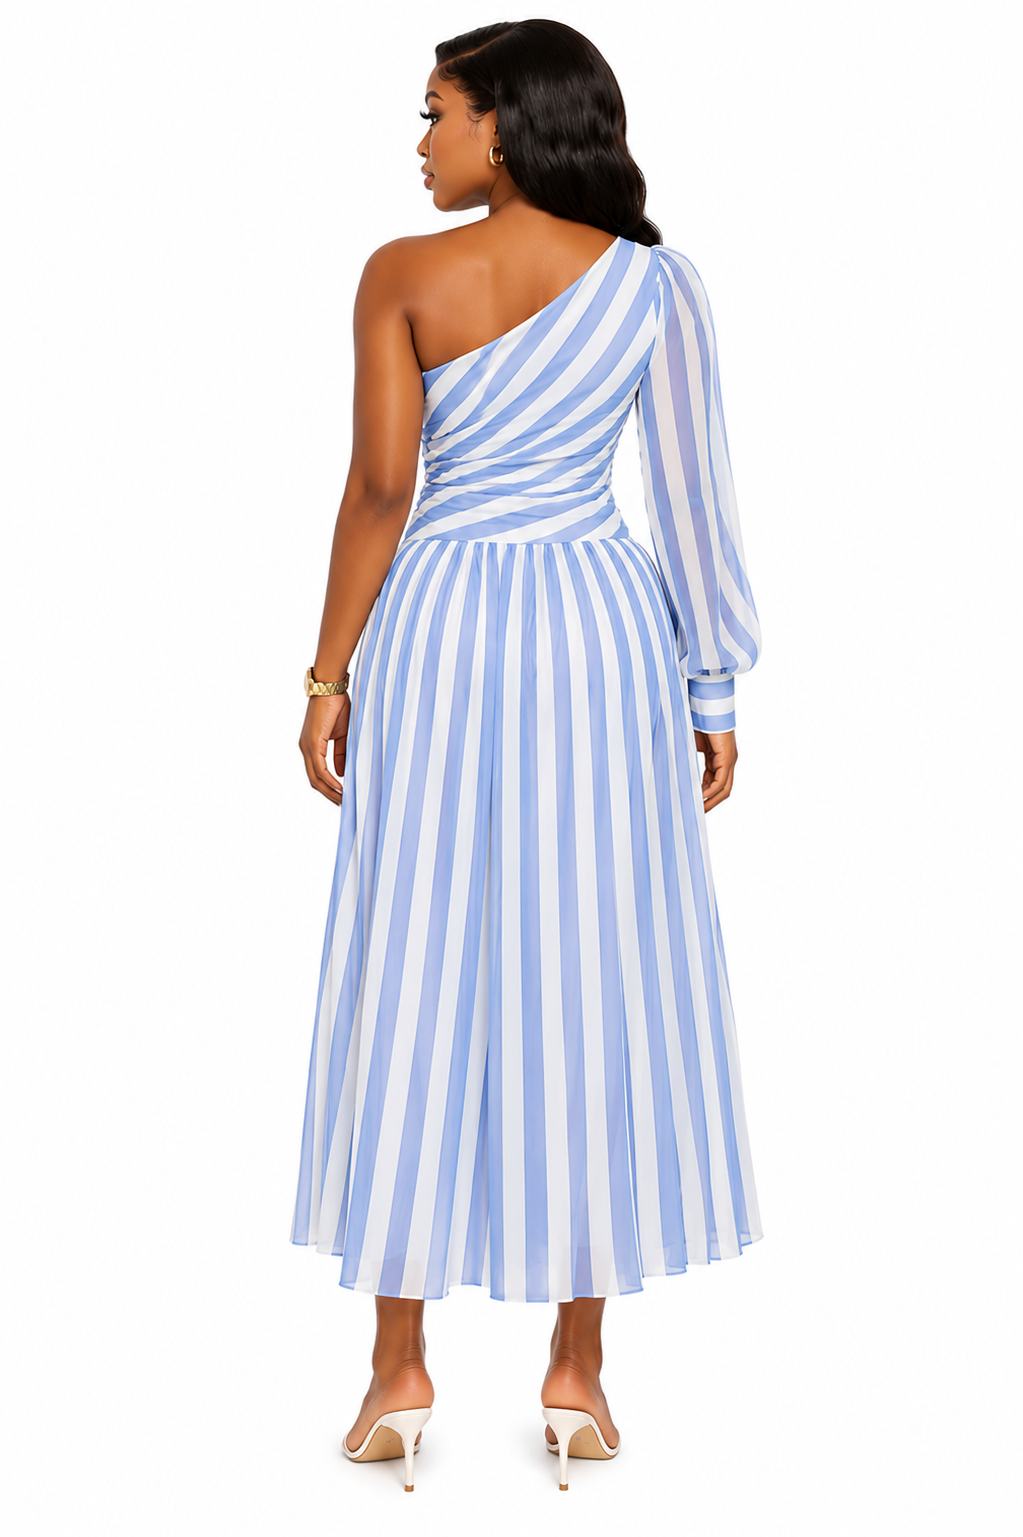
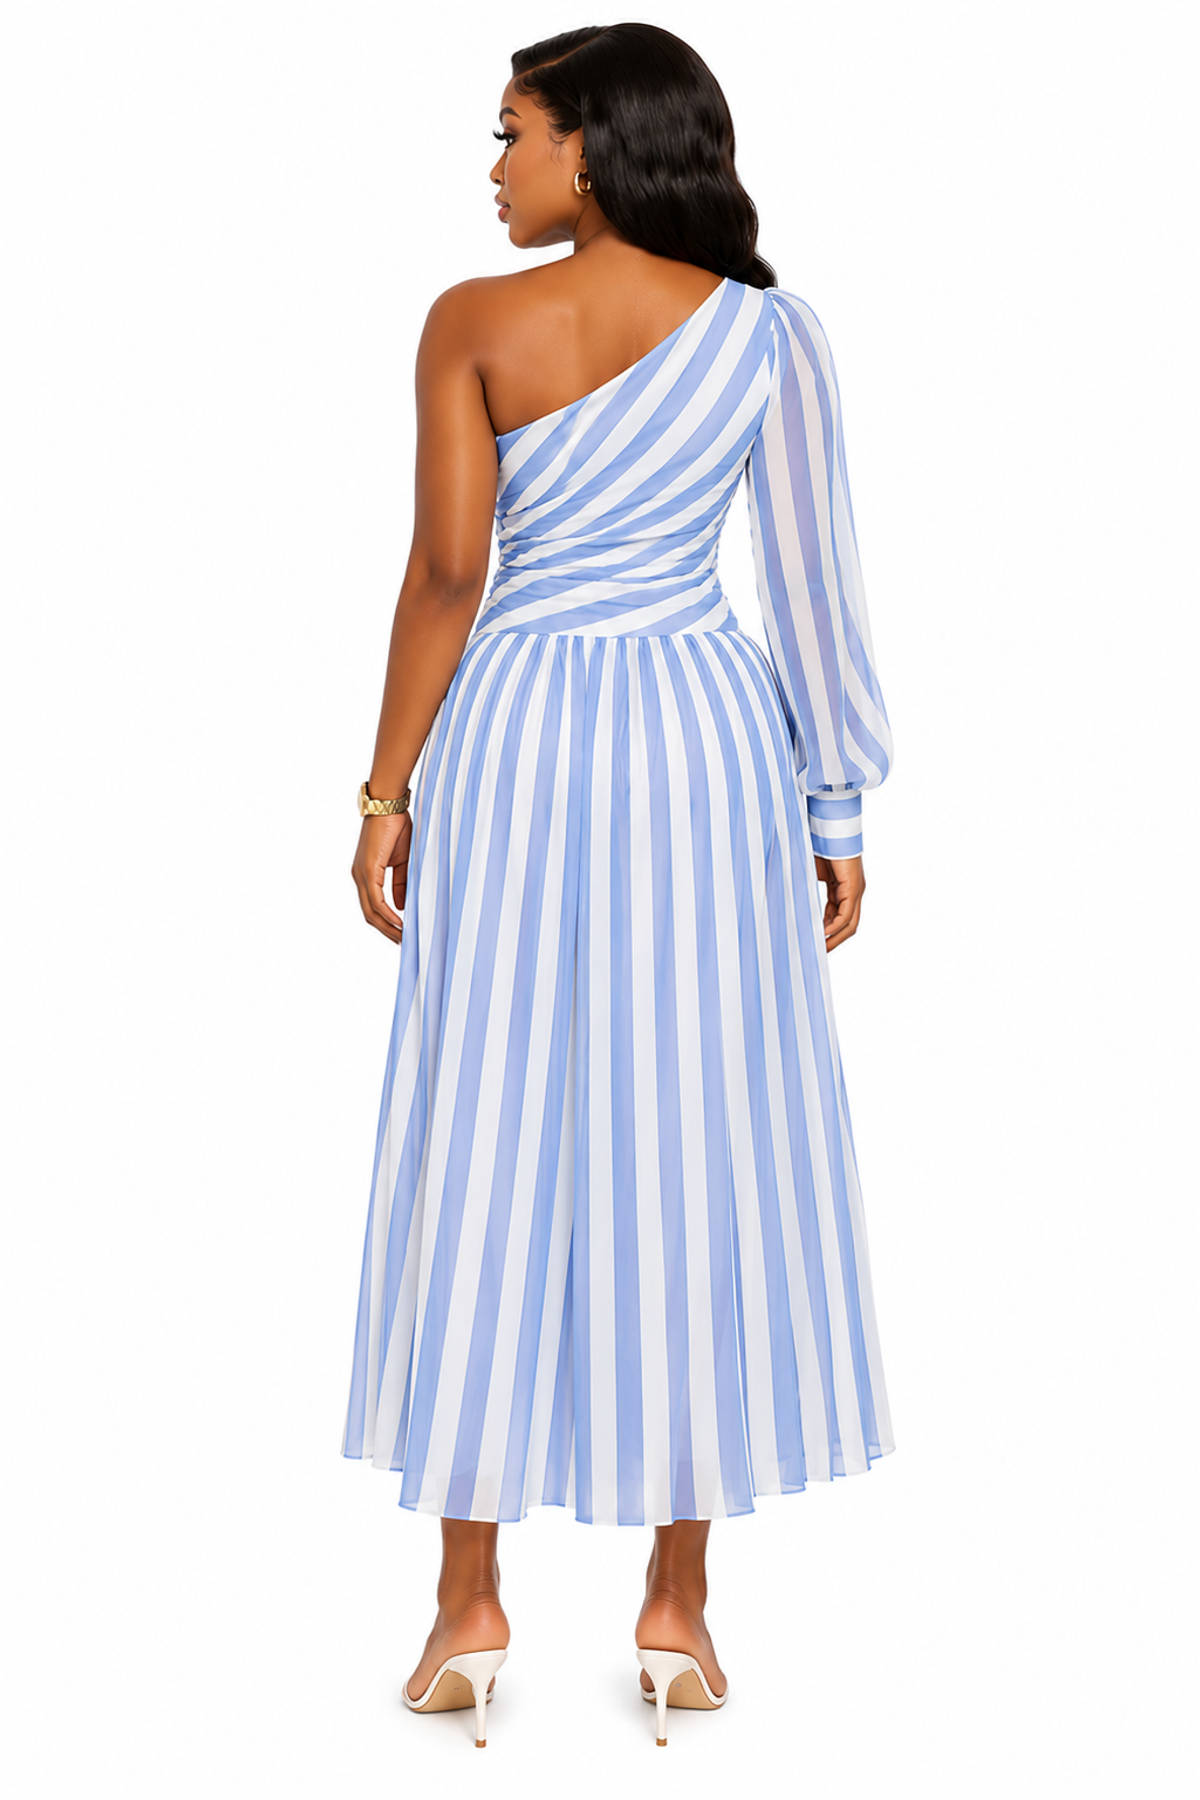
fix: standardize blue-white striped dress images to 1200x1800 2:3 ratio for consistent front/back display

diff --git a/scripts/standardize-product-images.js b/scripts/standardize-product-images.js
@@ -1,0 +1,46 @@
+const sharp = require("sharp");
+const fs = require("fs");
+const path = require("path");
+
+const productDir = path.resolve(process.cwd(), "public/images/products");
+const targetWidth = 1200;
+const targetHeight = 1800;
+
+const images = [
+  {
+    input: "blue-white-striped-one-shoulder-midi-dress-front.png",
+    output: "blue-white-striped-one-shoulder-midi-dress-front.png",
+  },
+  {
+    input: "blue-white-striped-one-shoulder-midi-dress-back.png",
+    output: "blue-white-striped-one-shoulder-midi-dress-back.png",
+  },
+];
+
+async function standardize({ input, output }) {
+  const inputPath = path.resolve(productDir, input);
+  const outputPath = path.resolve(productDir, output);
+
+  await sharp(inputPath)
+    .resize(targetWidth, targetHeight, {
+      fit: "contain",
+      background: { r: 255, g: 255, b: 255, alpha: 1 },
+      withoutEnlargement: false,
+    })
+    .toFile(outputPath + ".tmp");
+
+  fs.renameSync(outputPath + ".tmp", outputPath);
+  const metadata = await sharp(outputPath).metadata();
+  console.log(`Standardized ${input} -> ${output} (${metadata.width}x${metadata.height})`);
+}
+
+async function main() {
+  for (const img of images) {
+    await standardize(img);
+  }
+}
+
+main().catch((err) => {
+  console.error(err);
+  process.exit(1);
+});